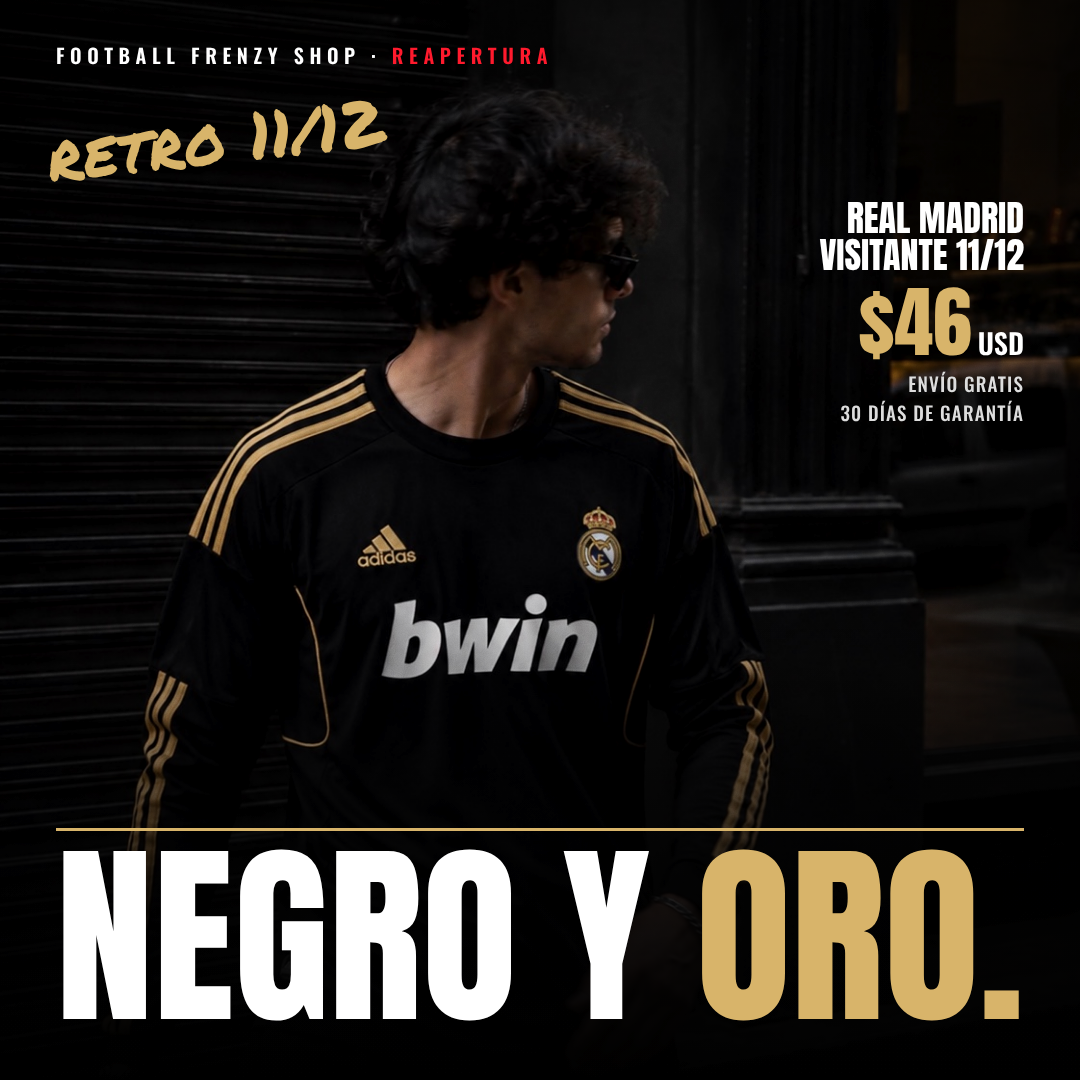
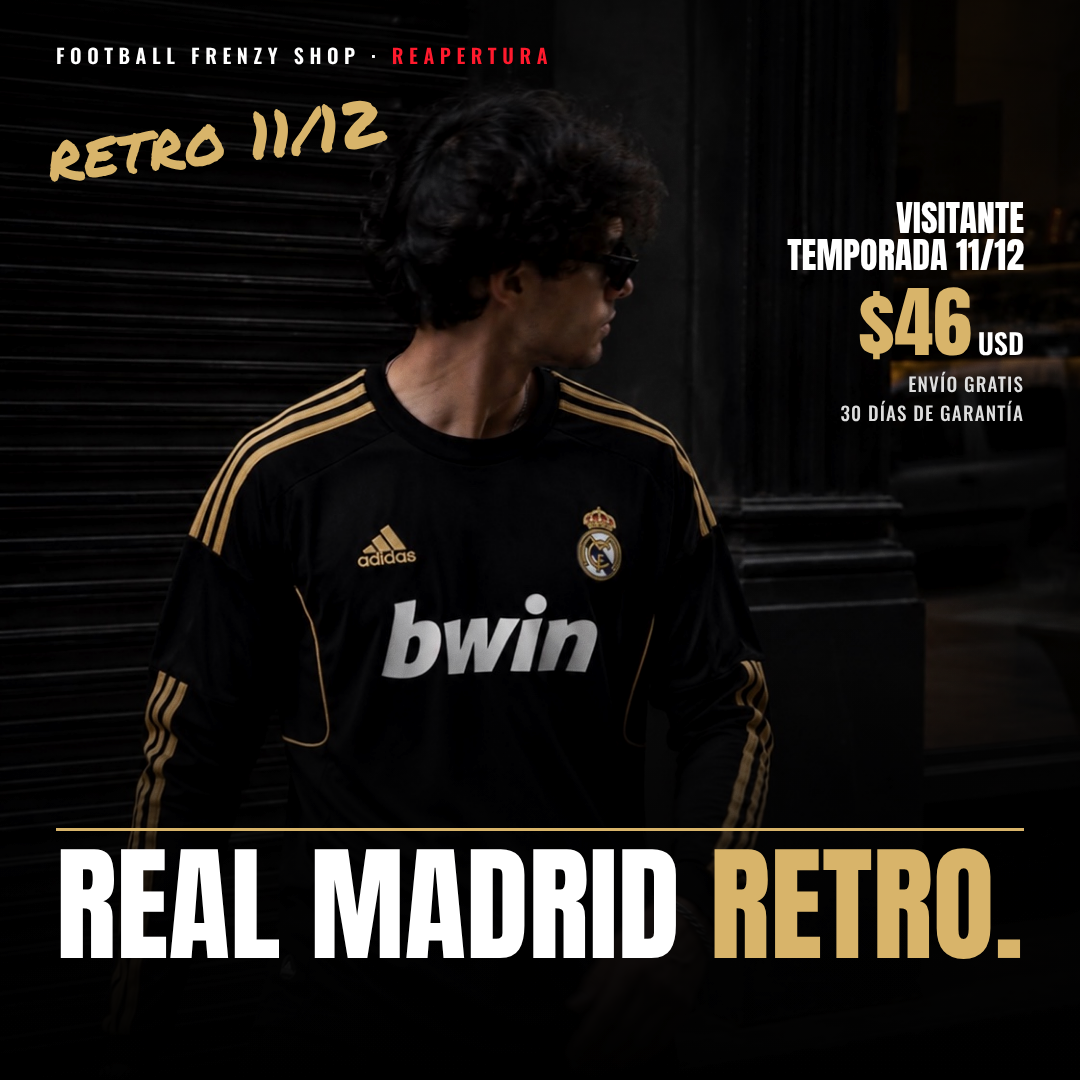
Change Real Madrid 11/12 ad headline to REAL MADRID RETRO
Claude-Session: https://claude.ai/code/session_01SyJ8zqLY7LJ6uvBQZzvBfx

Changed region(s): [[0.0306, 0.7639, 0.9472, 0.9472], [0.7333, 0.1833, 0.9472, 0.275]]

diff --git a/ads-visuales/pauta-real-madrid-11-12/textos-pauta.md b/ads-visuales/pauta-real-madrid-11-12/textos-pauta.md
@@ -29,7 +29,7 @@ Reabrimos nuestra página web y volvió una de las más pedidas: la retro 11/12 
 $46 USD, envío gratis. Las tallas vuelan.
 
 ## Título (máx. 40 caracteres)
-- Negro y oro. Retro 11/12 · $46 USD
+- Real Madrid Retro 11/12 · $46 USD
 - Real Madrid Visitante 11/12 Retro
 - Envío gratis + 30 días de garantía
 
